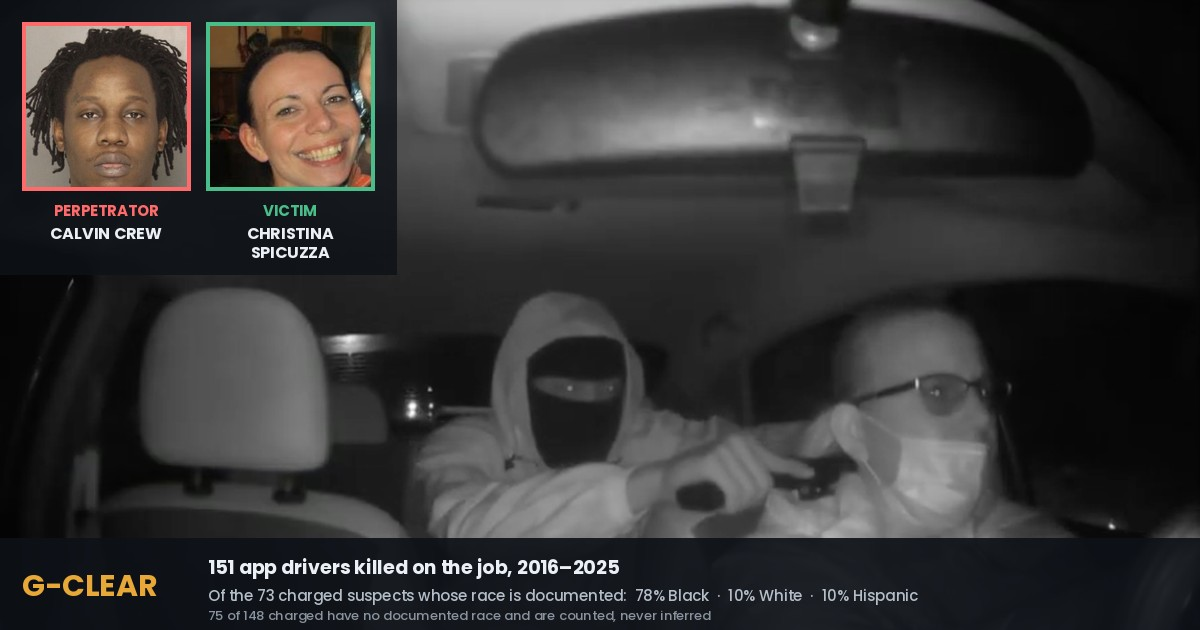
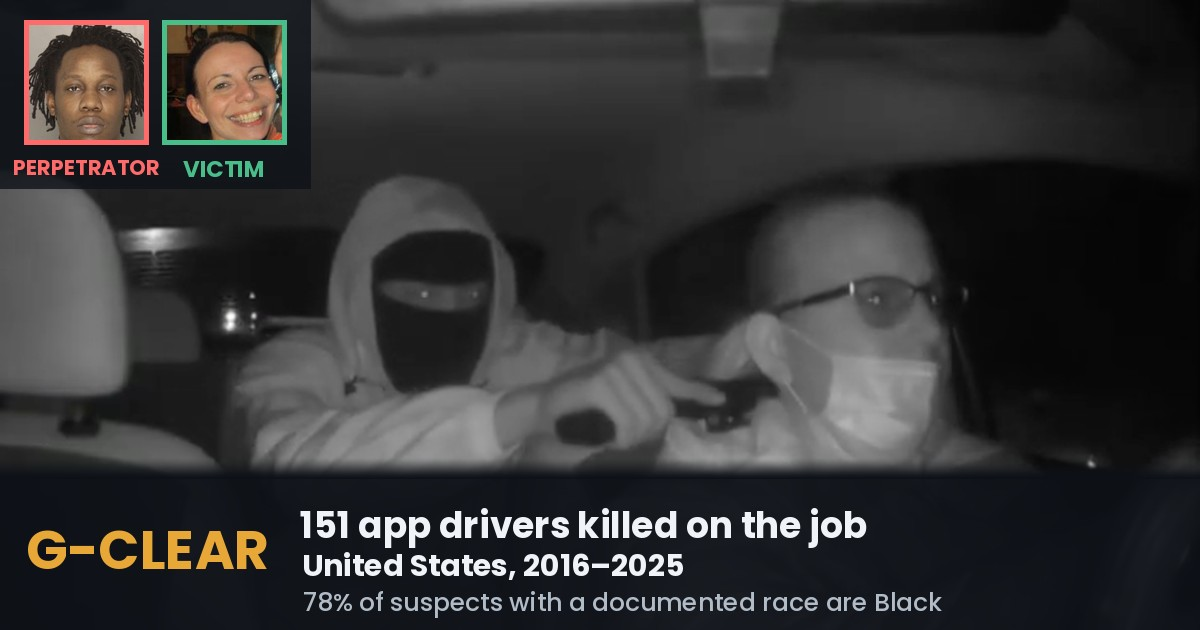
Add files via upload

diff --git a/index.html b/index.html
@@ -14,7 +14,7 @@
 <meta property="og:image" content="https://dont-shoot-the-data.github.io/GCLEAR/og-image.jpg">
 <meta property="og:image:width" content="1200">
 <meta property="og:image:height" content="630">
-<meta property="og:image:alt" content="Dashcam still from the Uber of Christina Spicuzza moments before she was killed in February 2022, with portraits of her and her convicted killer Calvin Crew.">
+<meta property="og:image:alt" content="Dashcam still from Christina Spicuzza's Uber showing Calvin Crew holding a gun to her head moments before he killed her, February 2022, with portraits of both.">
 <meta property="og:site_name" content="G-CLEAR">
 <meta name="twitter:image" content="https://dont-shoot-the-data.github.io/GCLEAR/og-image.jpg">
 <link rel="icon" type="image/svg+xml" href="favicon.svg">
@@ -1144,7 +1144,7 @@ body.dark-mode .page-wrap{background:#0d1117}
 <p><strong>The interracial finding, and why it probably is not about race.</strong> Only 40.0% of documented suspect-to-victim pairings here are intraracial, against roughly 80% in national homicide data. That is a large departure and it invites a racial reading. The occupational explanation is simpler and fits the rest of the data better. Most homicide is intraracial because most homicide happens between people who live near each other, and American neighborhoods remain segregated. App driving breaks that pattern by design: it takes a workforce that is heavily immigrant and heavily non-White and dispatches it, by algorithm, into neighborhoods its members do not live in. The encounters are not drawn from a shared community, so they do not inherit that community's demographics. The seventeen-year age gap between victims and the people charged with killing them points the same way. This is not neighbors killing neighbors.</p>
 <p><strong>The discrimination literature, and the asymmetry it reveals.</strong> There is a well-developed body of peer-reviewed research on ride-hailing discrimination. A 2016 field study across Seattle and Boston, running roughly 1,500 rides, found Black riders waited up to 35% longer and that cancellation rates roughly doubled for riders with African American sounding names, with Black male riders in low-density areas affected roughly three times as often. A 2024 study in the Proceedings of the National Academy of Sciences estimated that more than 3% of drivers must be discriminating to produce the observed cancellation gaps, while finding that rapid rematching cut the resulting wait-time penalty to about eleven seconds and that residential segregation independently produced roughly 50% longer waits.</p>
 <p>That research is careful and its findings stand. The observation this study adds is about attention, not about its conclusions. Over the same decade, gold-standard field experiments, a PNAS paper, federal interest, and sustained press coverage measured what drivers did to passengers. Nobody measured what happened to drivers. One side of that ledger was funded, peer-reviewed, and covered. The other side produced 151 corpses and no list.</p>
-<div class="acad-highlight"><strong>What this data cannot support, stated explicitly.</strong> These findings do not establish that refusing passengers by race would protect drivers, and this study does not argue it. The arithmetic forbids it. Uber recorded roughly 2.1 billion trips across 2019 and 2020 against five driver deaths from assault, a risk on the order of one in 400 million trips. No refusal rule keyed to a passenger characteristic can be justified as risk management at that base rate. This dataset cannot connect killer race to any ride-acceptance decision in any case: 75 of 148 charged individuals have no documented race at all, and only 53 of 150 killings were committed by a passenger. Anyone citing this project to argue that drivers were right to profile is citing it against its own evidence.</div>
+<div class="acad-highlight"><strong>What the arithmetic shows.</strong> Among the 73 charged individuals whose race is publicly documented, 57 are Black: 78.1%, against a 13.6% share of the population, an index of 5.74. That is the largest disproportionality in this dataset and it is stated plainly wherever it appears. What the same dataset will not carry is the inference that screening passengers by race would protect a driver, and the reason is the base rate rather than the finding. Uber recorded roughly 2.1 billion <strong>U.S.</strong> trips across 2019 and 2020, 1.4 billion in 2019 and 650 million in 2020, against five U.S. driver deaths from assault in its own safety report: a risk on the order of one in 400 million trips. No refusal rule keyed to a passenger characteristic can be justified as risk management at that base rate. This dataset cannot connect killer race to any ride-acceptance decision in any case: 75 of 148 charged individuals have no documented race at all, and only 53 of 150 killings were committed by a passenger.</div>
 <p><strong>The refusal question is real, and it is about penalties rather than race.</strong> The documented tension is between platform enforcement and driver discretion. Drivers report declining to cancel rides they felt were unsafe because cancellation and acceptance rates carry consequences, and a 2023 survey of rideshare drivers found a majority of drivers of color continued rides despite feeling unsafe. In June 2022, members of Congress wrote to the chief executives of Uber, Lyft, DoorDash, Grubhub, and Instacart arguing that no driver should be punished for declining a ride or delivery they believe would place them in danger. Uber has stated that canceling at pickup for safety reasons does not count against a driver's cancellation rate. That is a narrow assurance, and it does not address acceptance rates or pre-pickup declines. The policy question raised by this dataset is whether a driver's judgment about a specific situation carries any cost, not whether drivers should be permitted to screen by demographics.</p>
 <p><strong>Half the perpetrators are undocumented, and that is a finding.</strong> 75 of 148 charged individuals have no publicly documented race, concentrated among juveniles whose records are sealed and suspects still at large. Any published breakdown that assigns race to those 75, in either direction, is inventing data. The year pages correct several circulating compilations that do exactly that.</p>
 
@@ -1175,7 +1175,7 @@ body.dark-mode .page-wrap{background:#0d1117}
 
 <div class="obj-banner obj-collapsed" onclick="toggleObj(this)"><span class="obj-banner-num">OBJECTION 4</span><span class="obj-banner-title">"151 deaths across billions of trips. This is a manufactured crisis."</span><span class="obj-banner-arrow">&#9660;</span></div>
 <div class="obj-content obj-hidden">
-<div class="acad-highlight" style="margin:0 0 14px 0"><strong>Short answer.</strong> The per-trip risk is genuinely tiny, and this project publishes no rate claiming otherwise. Uber alone recorded roughly 2.1 billion trips across 2019 and 2020. Nothing here argues that app driving is dangerous relative to trips taken.</div>
+<div class="acad-highlight" style="margin:0 0 14px 0"><strong>Short answer.</strong> The per-trip risk is genuinely tiny, and this project publishes no rate claiming otherwise. Uber alone recorded roughly 2.1 billion <strong>U.S.</strong> trips across 2019 and 2020. Nothing here argues that app driving is dangerous relative to trips taken.</div>
 <div style="display:flex;gap:12px;flex-wrap:wrap;margin:12px 0 0"><div class="obj-stat-box"><div class="obj-stat-num" style="color:#c1121f">22.7</div><div class="obj-stat-label">Taxi homicide rate</div><div class="obj-stat-sub">per 100,000, NIOSH 1990-92</div></div><div class="obj-stat-box"><div class="obj-stat-num" style="color:#1a1a2e">366</div><div class="obj-stat-label">Taxi and limo violent deaths</div><div class="obj-stat-sub">NIOSH, 2003-2013</div></div><div class="obj-stat-box"><div class="obj-stat-num" style="color:#1a1a2e">151</div><div class="obj-stat-label">Documented in this study</div><div class="obj-stat-sub">2016-2025</div></div><div class="obj-stat-box"><div class="obj-stat-num" style="color:#2d6a4f">0</div><div class="obj-stat-label">Rates published here</div><div class="obj-stat-sub">no denominator exists</div></div></div>
 <div class="chart-box" style="padding:14px 16px"><div style="font-size:12px;line-height:1.75;color:#333">Two things remain true anyway. Occupational risk is measured per worker and per hour, not per transaction, and driving for hire has ranked among the deadliest occupations in the United States for thirty years, with NIOSH finding taxi drivers had the highest occupational homicide rate of any job in the early 1990s. And the argument of this project was never that the number is large. It is that for ten years nobody wrote down who was killing these people, which would be true if the number were 15 or 1,500.</div></div>
 </div>
@@ -1213,7 +1213,7 @@ body.dark-mode .page-wrap{background:#0d1117}
 <div class="acad-highlight" style="margin:0 0 14px 0"><strong>Short answer.</strong> It shows nothing of the kind, and the arithmetic makes that conclusion impossible rather than merely unproven.</div>
 <div style="display:flex;gap:12px;flex-wrap:wrap;margin:12px 0 0"><div class="obj-stat-box"><div class="obj-stat-num" style="color:#2d6a4f">1 in 400M</div><div class="obj-stat-label">Approximate per-trip risk</div><div class="obj-stat-sub">Uber, 2019-2020</div></div><div class="obj-stat-box"><div class="obj-stat-num" style="color:#1a1a2e">53</div><div class="obj-stat-label">Killed by a passenger</div><div class="obj-stat-sub">of 150 homicides</div></div><div class="obj-stat-box"><div class="obj-stat-num" style="color:#c1121f">75</div><div class="obj-stat-label">Suspects with no race on record</div><div class="obj-stat-sub">of 148 charged</div></div><div class="obj-stat-box"><div class="obj-stat-num" style="color:#6d597a">5</div><div class="obj-stat-label">CEOs written to</div><div class="obj-stat-sub">by members of Congress, 2022</div></div></div>
 <div class="chart-row" style="margin-top:14px">
-  <div class="chart-box" style="padding:14px 16px"><div style="font-size:12px;line-height:1.75;color:#333">Uber recorded roughly 2.1 billion trips across 2019 and 2020 against five driver deaths from assault. That is a risk on the order of one in 400 million trips. At that base rate, no refusal rule keyed to any passenger characteristic produces a meaningful reduction in risk, and any such rule would decline millions of legitimate rides for every fatal encounter avoided, assuming it avoided any.</div></div>
+  <div class="chart-box" style="padding:14px 16px"><div style="font-size:12px;line-height:1.75;color:#333">Uber recorded roughly 2.1 billion <strong>U.S.</strong> trips across 2019 and 2020 against five U.S. driver deaths from assault. That is a risk on the order of one in 400 million trips. At that base rate, no refusal rule keyed to any passenger characteristic produces a meaningful reduction in risk, and any such rule would decline millions of legitimate rides for every fatal encounter avoided, assuming it avoided any.</div></div>
   <div class="chart-box" style="padding:14px 16px"><div style="font-size:12px;line-height:1.75;color:#333">The dataset also cannot make the connection the objection requires. 75 of 148 charged individuals have no documented race. Only 53 of 150 killings were committed by a passenger at all; the rest were carjackings, robberies, ambushes, road rage, crossfire, and one ex-partner. There is no ride-acceptance decision in most of these cases to have made differently.</div></div>
 </div>
 <div style="margin-top:14px"><div class="chart-box" style="padding:14px 16px"><div style="font-size:12px;line-height:1.75;color:#333">The real and documented tension is a different one: drivers report continuing rides they felt were unsafe because declining carries consequences for their acceptance and cancellation rates. That is a question about whether a driver's situational judgment costs them income, and it was raised in 2022 by members of Congress writing to five chief executives. It is not a question about passenger demographics.</div></div></div>
